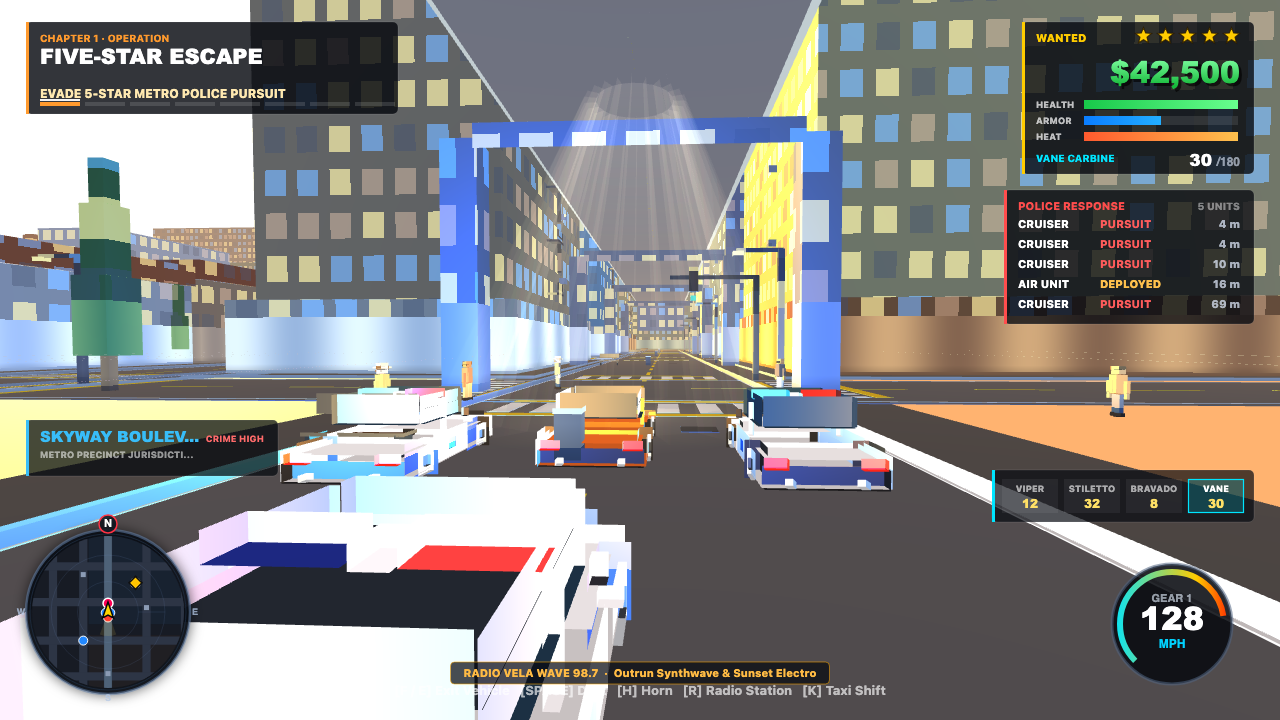
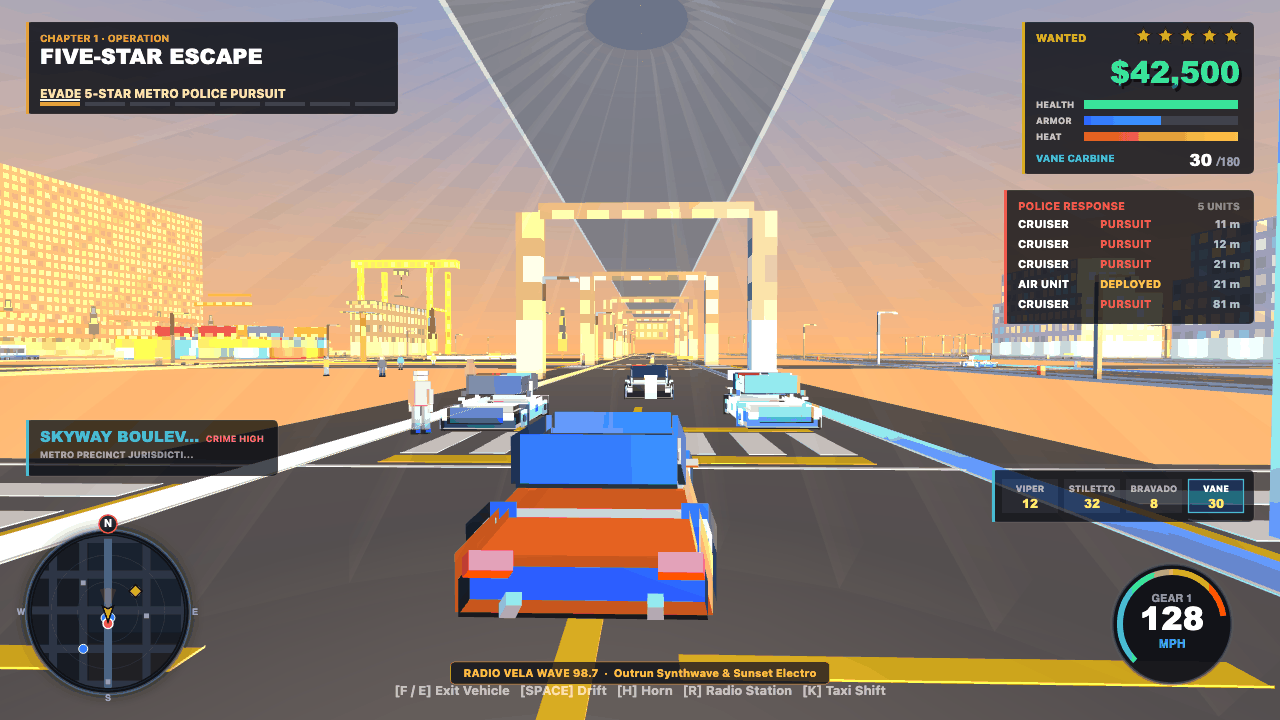
feat(shots): restage photo-mode presets into the low golden-hour sun for warm cinematic frames

diff --git a/game/src/config.js b/game/src/config.js
@@ -400,13 +400,13 @@ export const SHOT_PRESETS = {
     name: '3-downtown-street.png',
     missionTitle: 'WHEELS FOR THE CREW',
     camera: {
-      pos: [118.0, 2.15, -91.0],
-      target: [120.5, 1.85, -126.0],
+      pos: [119.6, 2.05, -127.0],
+      target: [120.6, 1.9, -93.0],
       fov: 63,
     },
     player: {
-      pos: [119.5, 0.24, -95.5],
-      rot: Math.PI * 0.96,
+      pos: [119.2, 0.24, -121.5],
+      rot: 0.12,
       inVehicle: false,
       weapon: 'smg',
     },
@@ -416,28 +416,27 @@ export const SHOT_PRESETS = {
     objective: 'DELIVER THE STOLEN VELOCE GT TO SAFEHOUSE (140M)',
     traffic: [
       // Stolen sports coupe parked at an angle at the kerb right beside player
-      { type: 'sports', pos: [123.0, 0, -96.5], rot: Math.PI * 0.88, speedMph: 0 },
-      // Northbound lane moving traffic
-      { type: 'taxi', pos: [120.2, 0, -112.0], rot: Math.PI, speedMph: 28 },
-      { type: 'sedan', pos: [119.8, 0, -128.0], rot: Math.PI, speedMph: 32 },
-      // Southbound lane oncoming traffic
-      { type: 'hatchback', pos: [110.5, 0, -118.0], rot: 0, speedMph: 25 },
+      { type: 'sports', pos: [123.0, 0, -118.5], rot: 0.26, speedMph: 0 },
+      // Traffic rolling away down the avenue into the low sun
+      { type: 'taxi', pos: [120.4, 0, -107.0], rot: 0, speedMph: 28 },
+      { type: 'sedan', pos: [119.4, 0, -99.5], rot: 0, speedMph: 32 },
+      // Oncoming lane, headlights toward the camera
+      { type: 'hatchback', pos: [110.6, 0, -103.0], rot: Math.PI, speedMph: 25 },
+      { type: 'muscle', pos: [124.2, 0, -110.0], rot: 0, speedMph: 0 },
       // Double-parked delivery hauler with hazard lights
-      { type: 'truck', pos: [121.2, 0, -138.0], rot: Math.PI, speedMph: 0 },
-      // Parked muscle car at east kerb
-      { type: 'muscle', pos: [124.2, 0, -104.0], rot: Math.PI, speedMph: 0 },
-      // Responding police interceptor with flashing sirens heading south toward player
-      { type: 'police', pos: [111.0, 0, -132.0], rot: 0, speedMph: 35, sirenActive: true },
+      { type: 'truck', pos: [121.4, 0, -95.0], rot: 0, speedMph: 0 },
+      // Responding police interceptor with flashing sirens closing in
+      { type: 'police', pos: [112.4, 0, -86.0], rot: Math.PI, speedMph: 35, sirenActive: true },
     ],
     pedestrians: [
       // East sidewalk walking pairs and pedestrians
-      { pos: [126.8, 0.24, -102.0], rot: Math.PI, walkCycle: 1.2 },
-      { pos: [127.6, 0.24, -103.5], rot: Math.PI, walkCycle: 2.5 },
-      { pos: [127.2, 0.24, -118.0], rot: 0, walkCycle: 0.8 },
+      { pos: [126.8, 0.24, -114.0], rot: 0, walkCycle: 1.2 },
+      { pos: [127.6, 0.24, -112.5], rot: 0, walkCycle: 2.5 },
+      { pos: [127.2, 0.24, -99.0], rot: 0, walkCycle: 0.8 },
       // West sidewalk pedestrians
-      { pos: [102.5, 0.24, -106.0], rot: Math.PI, walkCycle: 1.9 },
-      { pos: [103.2, 0.24, -107.2], rot: Math.PI, walkCycle: 3.1 },
-      { pos: [102.8, 0.24, -124.0], rot: 0, walkCycle: 0.4 },
+      { pos: [102.5, 0.24, -109.0], rot: 0, walkCycle: 1.9 },
+      { pos: [103.2, 0.24, -107.8], rot: 0, walkCycle: 3.1 },
+      { pos: [102.8, 0.24, -96.0], rot: 0, walkCycle: 0.4 },
     ],
   },
   2: {
@@ -478,13 +477,13 @@ export const SHOT_PRESETS = {
     name: '1-police-chase.png',
     missionTitle: 'FIVE-STAR ESCAPE',
     camera: {
-      pos: [46.5, 2.6, -19.0],
-      target: [45.0, 1.7, -50.0],
+      pos: [44.4, 2.45, -54.0],
+      target: [45.2, 1.8, -21.5],
       fov: 68,
     },
     player: {
-      pos: [45.0, 0, -32.0],
-      rot: Math.PI,
+      pos: [45.0, 0, -47.0],
+      rot: 0,
       inVehicle: true,
       vehicleType: 'muscle',
       speedMph: 128,
@@ -494,11 +493,11 @@ export const SHOT_PRESETS = {
     cash: 42500,
     objective: 'EVADE 5-STAR METRO POLICE PURSUIT',
     hasHeli: true,
-    heliPos: [45.0, 22.0, -48.0],
+    heliPos: [45.0, 22.0, -26.0],
     cruisers: [
-      { pos: [40.8, 0, -30.5], rot: Math.PI, sirenPhase: 0 },
-      { pos: [49.2, 0, -30.5], rot: Math.PI, sirenPhase: Math.PI },
-      { pos: [45.0, 0, -22.0], rot: Math.PI, sirenPhase: Math.PI * 0.5 },
+      { pos: [40.6, 0, -36.0], rot: Math.PI, sirenPhase: 0 },
+      { pos: [49.4, 0, -36.5], rot: Math.PI, sirenPhase: Math.PI },
+      { pos: [44.6, 0, -26.5], rot: Math.PI, sirenPhase: Math.PI * 0.5 },
     ],
   },
   4: {
